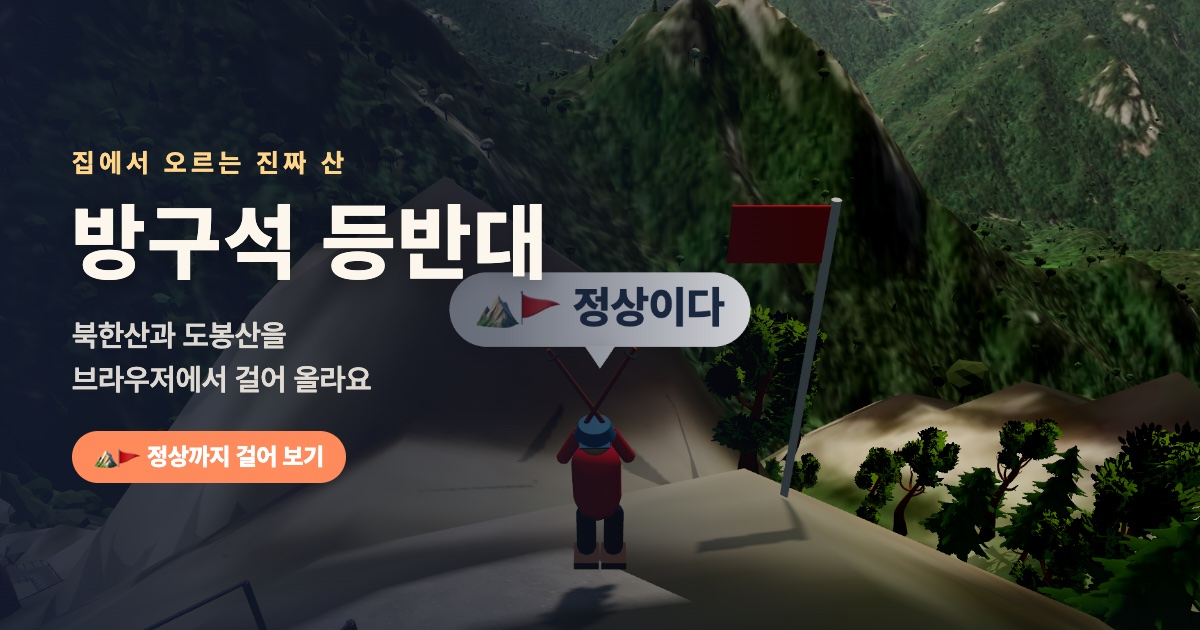
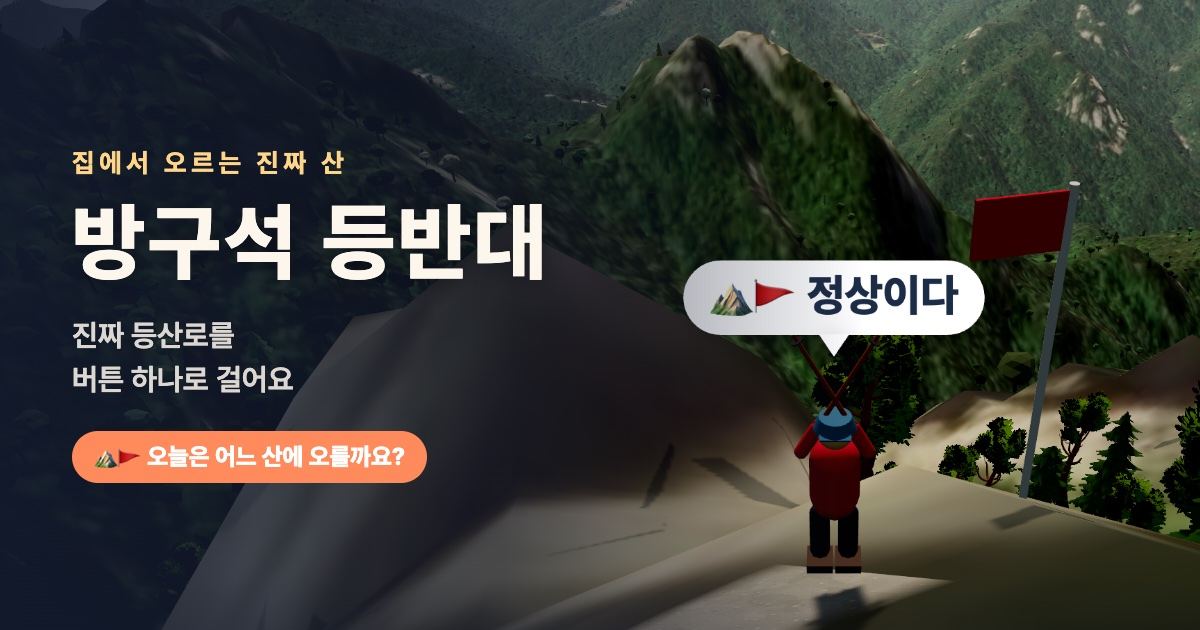
feat: 링크 미리보기 문구에서 산 이름을 빼고 누구나 쉽게 시작할 수 있다고 알린다
링크 미리보기와 페이지 설명에 「북한산과 도봉산을 브라우저에서 걸어 올라요」가 들어 있어서 관악산을 더한 지금도, 앞으로 산을 더해도 맞지 않았다. 산 이름을 빼고 누구나 망설이지 않게 쉬움을 앞세운 문구로 바꿨다.

- 미리보기 설명, 검색용 페이지 설명, 앱 설치 설명: 「버튼 하나로 진짜 등산로를 따라 정상까지 올라요. 설치 없이 바로 시작해요.」
- 미리보기 그림 속 글: 「진짜 등산로를 버튼 하나로 걸어요」
- 미리보기 그림 속 버튼: 「⛰🚩 오늘은 어느 산에 오를까요?」

미리보기 그림은 백운대 정상 기념사진에 새 문구를 얹어 다시 만들었다. 정상 사진 방향이 바뀌어 말풍선이 제목에 겹쳐서 배경을 오른쪽으로 옮겼다.

diff --git a/index.html b/index.html
@@ -8,7 +8,7 @@
     <meta name="theme-color" content="#1c2c47" />
     <meta name="color-scheme" content="dark" />
     <title>방구석 등반대</title>
-    <meta name="description" content="집에서 오르는 진짜 산. 북한산과 도봉산을 브라우저에서 걸어 올라요." />
+    <meta name="description" content="버튼 하나로 진짜 등산로를 따라 정상까지 올라요. 설치 없이 바로 시작해요." />
     <!-- 홈 화면에 추가(PWA). 설치하면 주소창 없이 앱처럼 열린다 -->
     <link rel="manifest" href="/manifest.webmanifest" />
     <link rel="apple-touch-icon" href="/apple-touch-icon.png" />
@@ -19,7 +19,7 @@
     <!-- 링크를 카카오톡·슬랙에 붙였을 때 보이는 카드. 그림(og:image)과 주소는 절대 주소가 필요해 빌드할 때 vite.config.ts 의 socialMeta 가 넣는다 -->
     <meta property="og:type" content="website" />
     <meta property="og:title" content="방구석 등반대" />
-    <meta property="og:description" content="집에서 오르는 진짜 산. 북한산과 도봉산을 브라우저에서 걸어 올라요." />
+    <meta property="og:description" content="버튼 하나로 진짜 등산로를 따라 정상까지 올라요. 설치 없이 바로 시작해요." />
     <meta property="og:locale" content="ko_KR" />
     <!--
       고른 산(src/lib/mountains.ts 가 브라우저에 기억)의 지형·코스 데이터를 JS 를 받는 동안 같이 받아 둔다.
